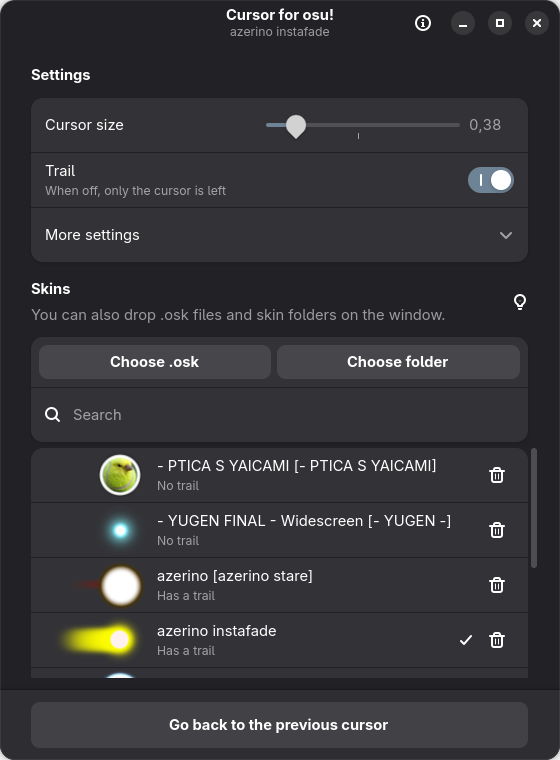
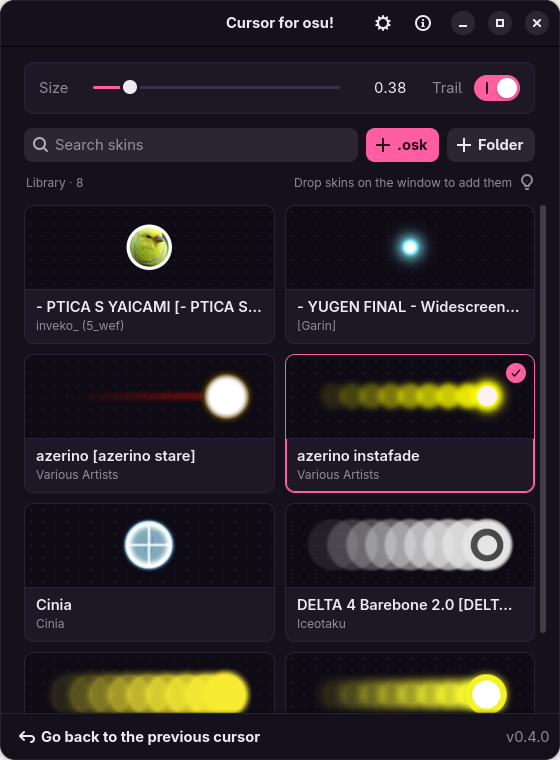
Show the new window in the README
New screenshots, and the usage sections name the cards, the gear button for More settings, typing the size and removing a skin from its card.

diff --git a/README.md b/README.md
@@ -161,9 +161,9 @@ to the translated one. `python3 -m pytest` checks that every text has a translat
 
 ### Usage
 
-Open **Cursor for osu!** from your applications and add a skin to the list with **Choose .osk** or **Choose folder** (for an unpacked skin folder), or drop `.osk` files and skin folders on the window. Click a skin in the list to apply it.
+Open **Cursor for osu!** from your applications and add skins with the **.osk** and **Folder** buttons (for an unpacked skin folder), or drop `.osk` files and skin folders on the window. Each skin gets a card with its cursor and trail, its name and its author. Click a card to apply the skin, the one in use has a pink frame. Set the size with the slider, or click the number next to it and type one.
 
-Skins you export from osu!lazer are added on their own, the app watches the game's exports folder while it is open and catches up on new exports when it starts. A skin you remove from the list doesn't come back unless you export it again. This can be turned off with the **Watch osu! exports** switch under **More settings**. The **Add all** button next to it adds every export at once, removed skins included. If osu!lazer keeps its files somewhere the app doesn't look, pick the folder with **Change** next to **osu!lazer folder**. Right-click a skin to rename it or open its folder. Removing the skin in use goes back to your previous cursor.
+Skins you export from osu!lazer are added on their own, the app watches the game's exports folder while it is open and catches up on new exports when it starts. A skin you remove from the list doesn't come back unless you export it again. This can be turned off with the **Watch osu! exports** switch under **More settings**, the gear button at the top. The **Add all** button next to it adds every export at once, removed skins included. If osu!lazer keeps its files somewhere the app doesn't look, pick the folder with **Change** next to **osu!lazer folder**. Right-click a card to rename the skin, open its folder or remove it. Removing the skin in use goes back to your previous cursor.
 
 From the command line:
 
@@ -355,9 +355,9 @@ Başka bir dilde açmak için: `LANGUAGE=de cursor-for-osu`.
 
 ### Kullanım
 
-Uygulamalardan **Cursor for osu!**'i aç, **.osk seç** veya **Klasör seç** ile ya da pencereye sürükleyerek `.osk` dosyalarını ve skin klasörlerini listeye ekle. Uygulamak için listeden bir skine tıkla.
+Uygulamalardan **Cursor for osu!**'i aç, **.osk** ve **Klasör** düğmeleriyle ya da pencereye sürükleyerek `.osk` dosyalarını ve skin klasörlerini ekle. Her skin, imleci ve trail'i, adı ve yapımcısıyla bir kart olarak görünür. Uygulamak için bir karta tıkla, kullandığın skin pembe çerçeveli olur. Boyutu kaydırıcıyla ayarlayabilir ya da yanındaki sayıya tıklayıp yazabilirsin.
 
-osu!lazer'dan export ettiğin skin'ler kendiliğinden eklenir: uygulama açıkken oyunun exports klasörünü izler, açılınca da kapalıyken yapılan export'ları ekler. Listeden kaldırdığın bir skin, tekrar export etmedikçe geri gelmez. Bunu **Diğer ayarlar** altındaki **osu! export'larını izle** anahtarıyla kapatabilirsin. Yanındaki **Tümünü ekle** düğmesi, kaldırdıkların dahil bütün export'ları bir kerede ekler. osu!lazer dosyalarını uygulamanın bakmadığı bir yerde tutuyorsa, **osu!lazer klasörü** satırındaki **Değiştir** ile klasörü seçebilirsin. Bir skine sağ tıklayarak ismini değiştirebilir veya klasörünü açabilirsin. Kullandığın skini kaldırınca önceki imlecine dönersin.
+osu!lazer'dan export ettiğin skin'ler kendiliğinden eklenir: uygulama açıkken oyunun exports klasörünü izler, açılınca da kapalıyken yapılan export'ları ekler. Listeden kaldırdığın bir skin, tekrar export etmedikçe geri gelmez. Bunu üstteki ⚙ düğmesiyle açılan **Diğer ayarlar** altındaki **osu! export'larını izle** anahtarıyla kapatabilirsin. Yanındaki **Tümünü ekle** düğmesi, kaldırdıkların dahil bütün export'ları bir kerede ekler. osu!lazer dosyalarını uygulamanın bakmadığı bir yerde tutuyorsa, **osu!lazer klasörü** satırındaki **Değiştir** ile klasörü seçebilirsin. Bir karta sağ tıklayarak skin'in adını değiştirebilir, klasörünü açabilir veya onu kaldırabilirsin. Kullandığın skini kaldırınca önceki imlecine dönersin.
 
 Komut satırından:
 
